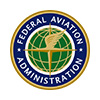
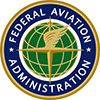
Removed FAA

diff --git a/index.html b/index.html
@@ -187,8 +187,9 @@
       <a href="https://www.nasa.gov/" target="_blank"><img src="img/brands/nasa.jpg"></a>
       <a href="https://www.google.com/" target="_blank"><img src="img/brands/google.jpg"></a>
       <a href="https://www.ibm.com/" target="_blank"><img src="img/brands/ibm.jpg"></a>
+      <!-- <br class="visible-lg"> -->
       <a href="https://www.ethereum.org/" target="_blank"><img src="img/brands/ethereum.jpg"></a>
-      <a href="https://www.faa.gov/" target="_blank"><img src="img/brands/faa.jpg"></a>
+      <!-- <a href="https://www.faa.gov/" target="_blank"><img src="img/brands/faa.jpg"></a> -->
       <a href="https://www.equinix.com/" target="_blank"><img src="img/brands/equinix.jpg"></a>
       <a href="https://www.ups.com/us/en/global.page" target="_blank"><img src="img/brands/ups.png"></a>
     </div>
